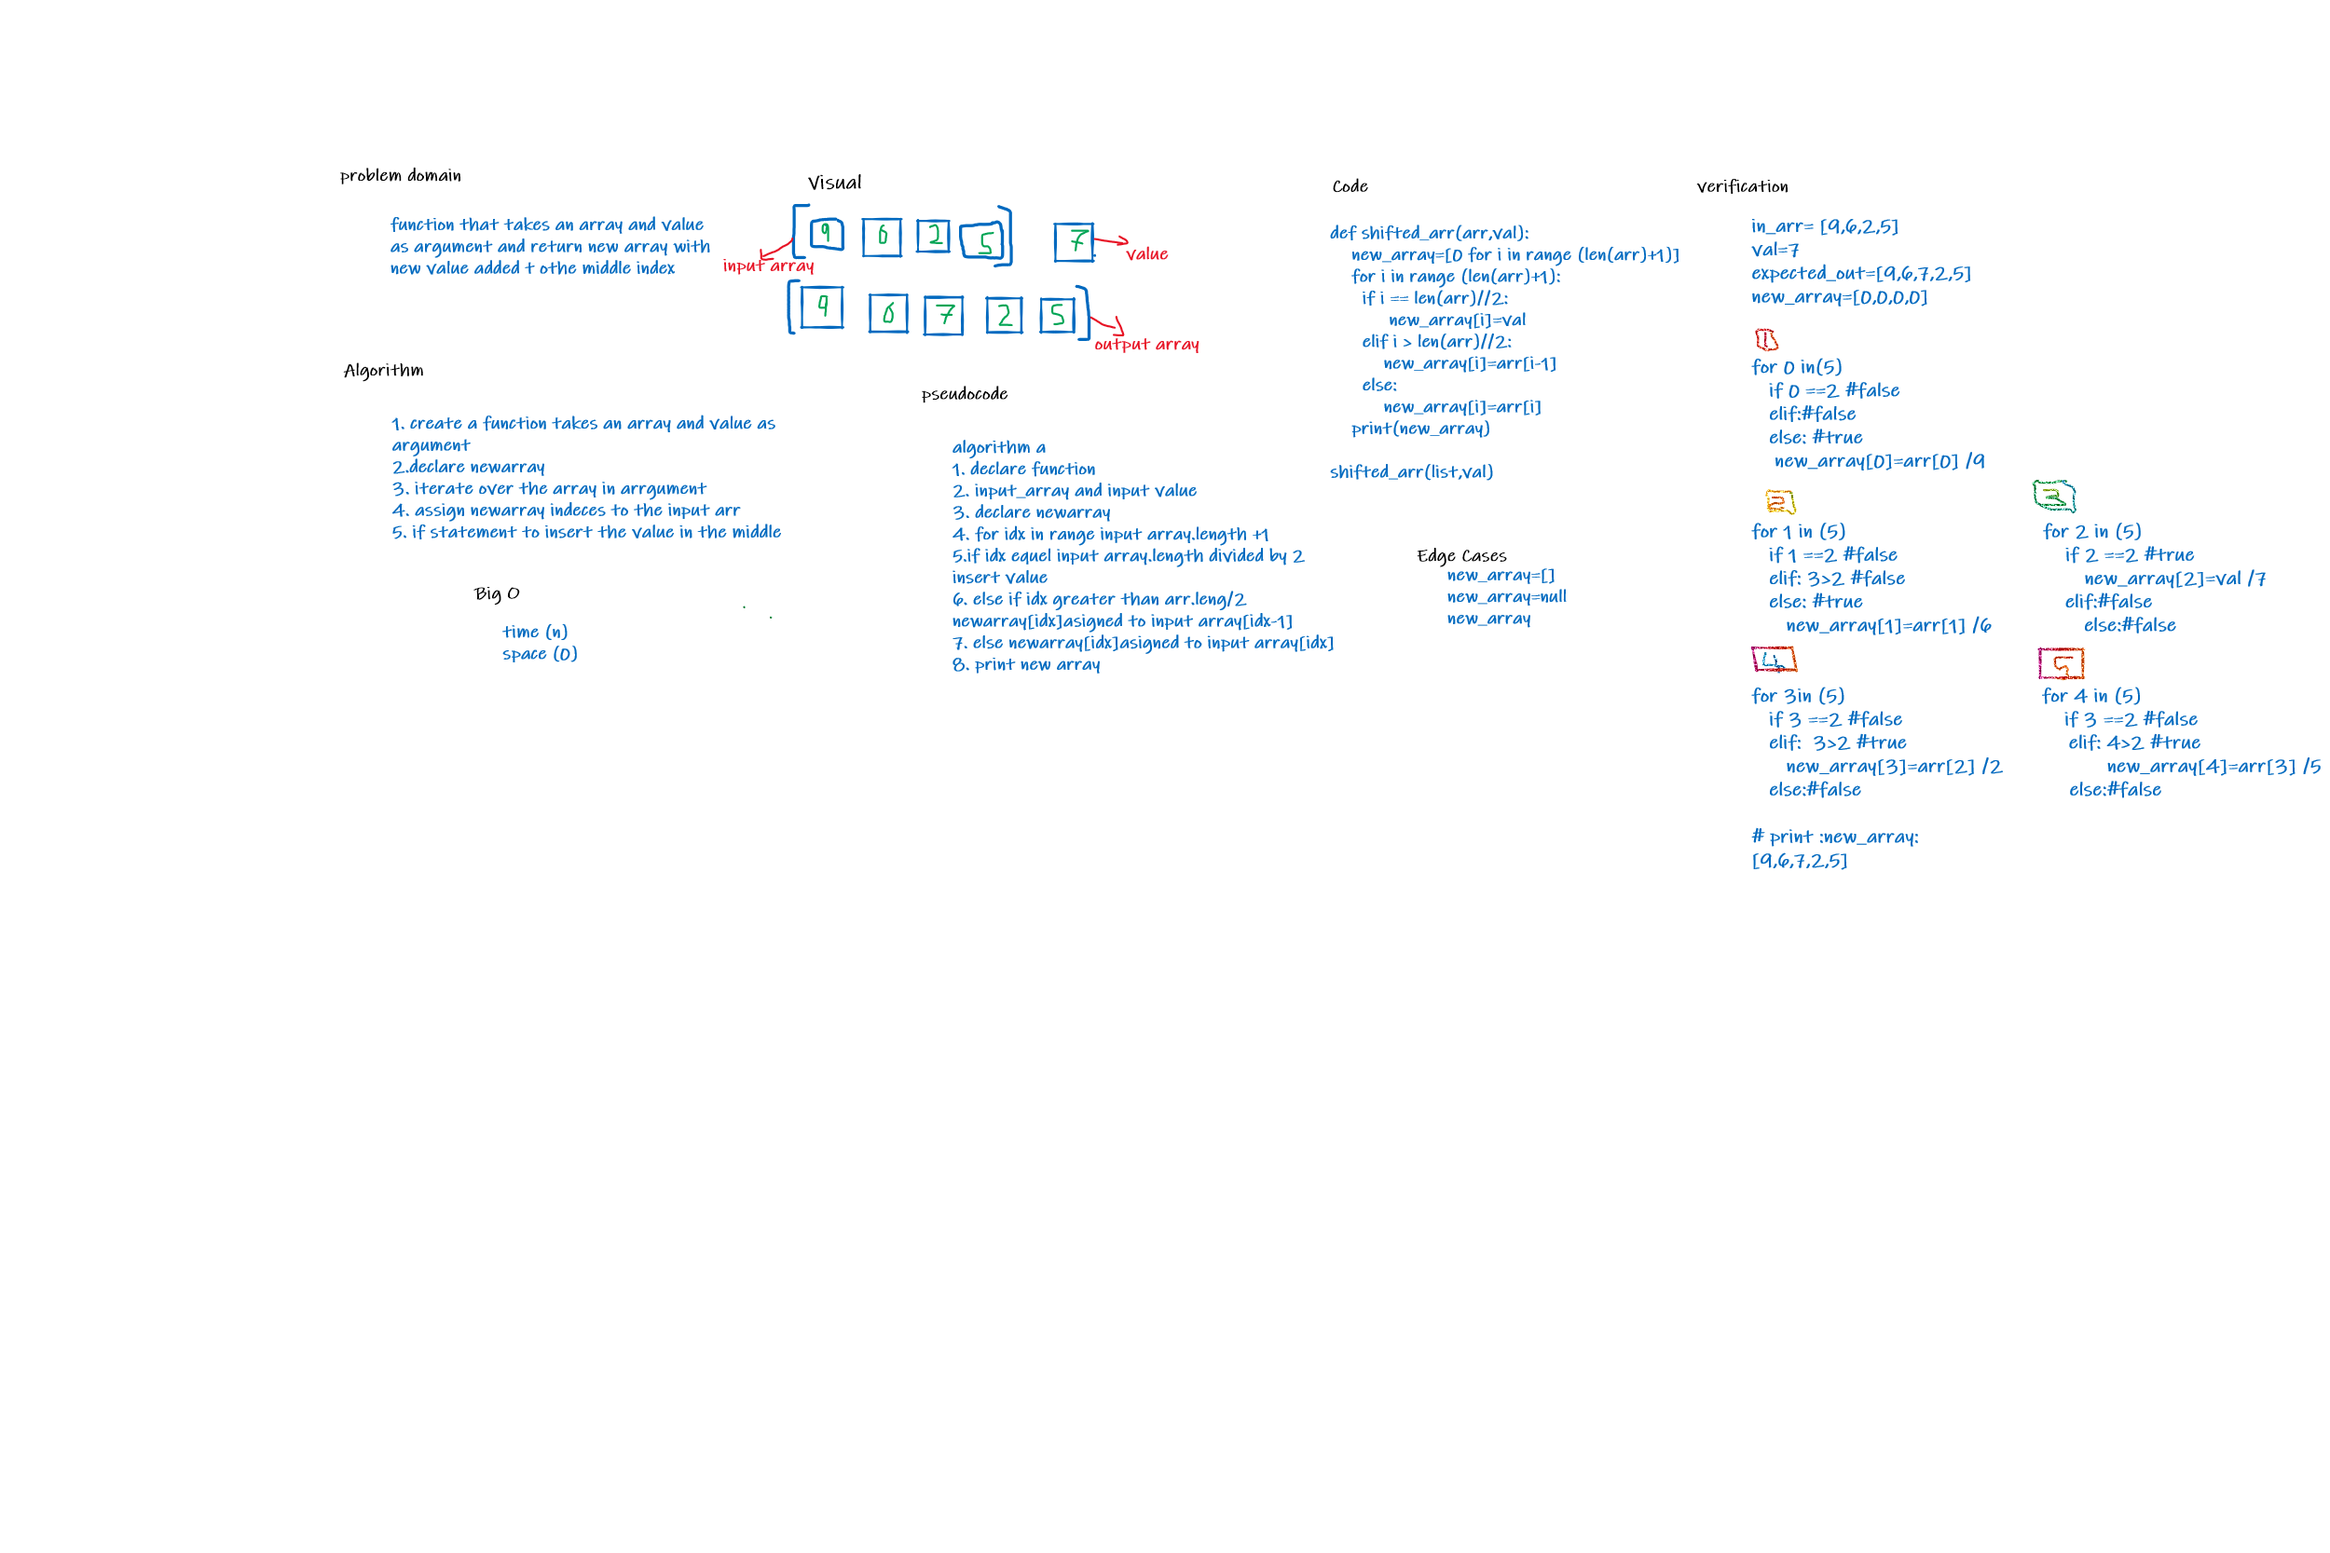
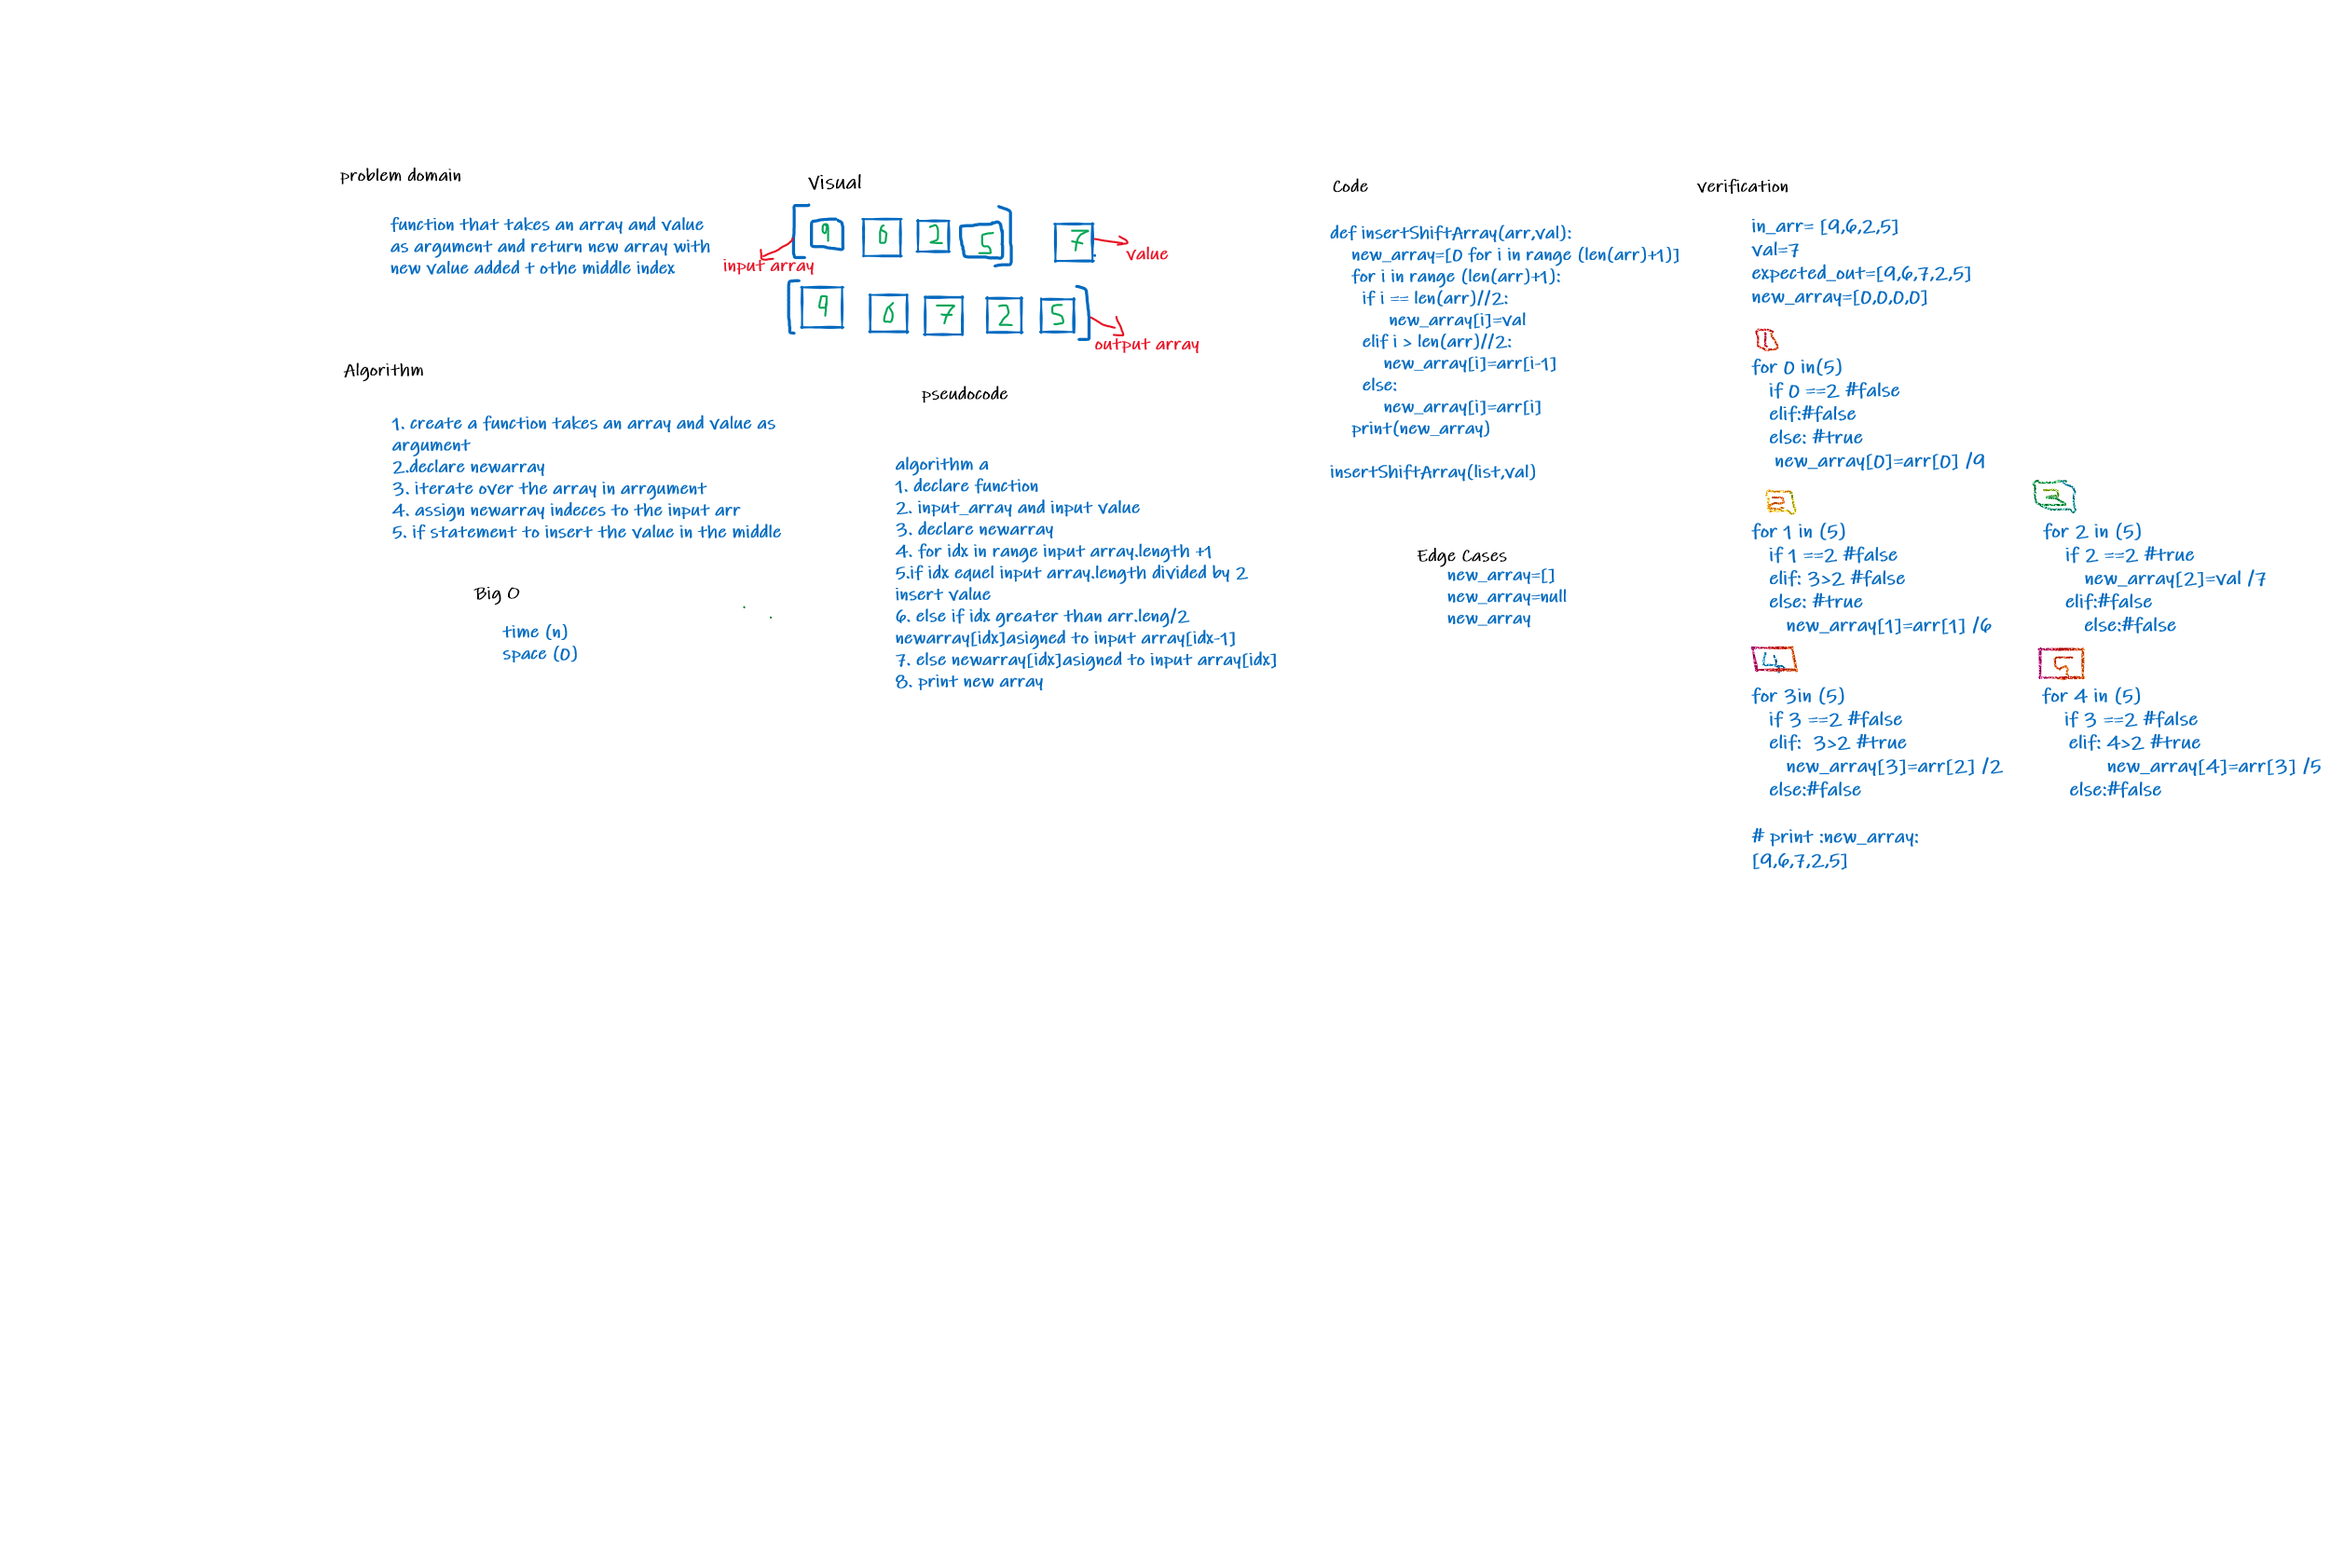
complete challenge 2

Changed region(s): [[0.3744, 0.2807, 0.5616, 0.4367], [0.5616, 0.2807, 0.6552, 0.3119], [0.5928, 0.1248, 0.6552, 0.156]]

diff --git a/array_shift/shift_array.py b/array_shift/shift_array.py
@@ -1,7 +1,7 @@
 list=[2,5,9,6,8,4,1]
 val= 7
 
-def shifted_arr(arr,val):
+def insertShiftArray(arr,val):
     new_array=[0 for i in range (len(arr)+1)]
     for i in range (len(arr)+1):
       if i == len(arr)//2:
@@ -12,4 +12,4 @@ def shifted_arr(arr,val):
           new_array[i]=arr[i]
     print(new_array)
 
-shifted_arr(list,val)
+insertShiftArray(list,val)
